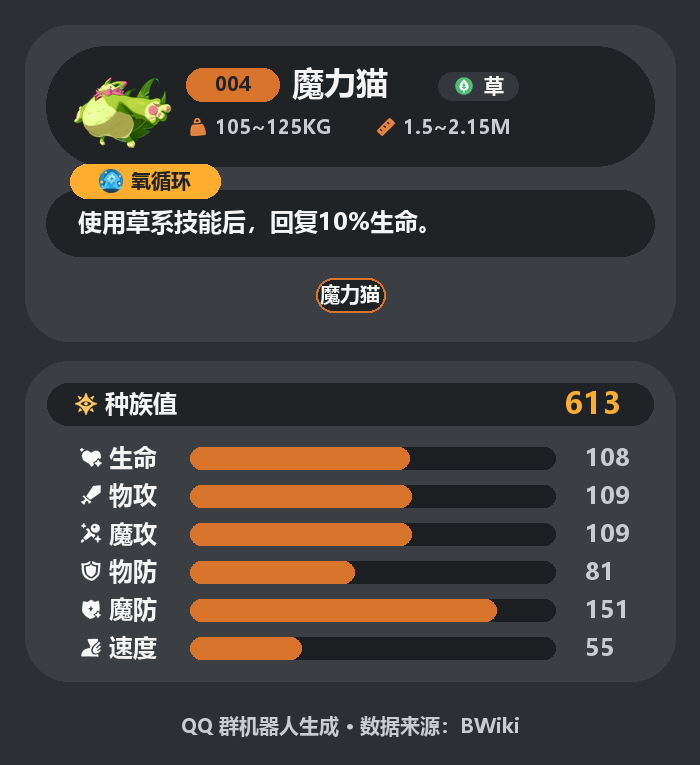
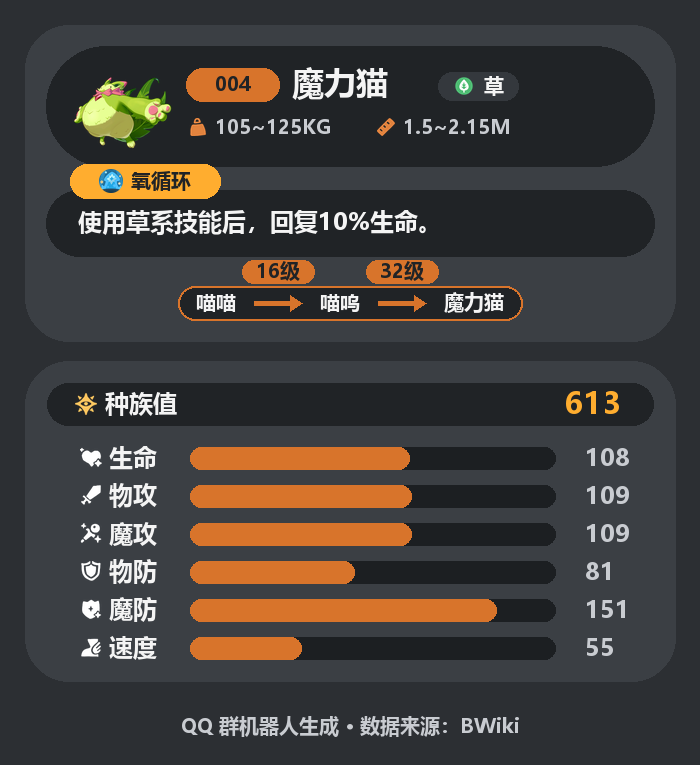
fix: improve roco evolution chain layout

Changed region(s): [[0.24, 0.3307, 0.75, 0.4209]]

diff --git a/src/qq_bot/services/roco_pet_cards.py b/src/qq_bot/services/roco_pet_cards.py
@@ -1,5 +1,6 @@
 from __future__ import annotations
 
+import re
 from io import BytesIO
 from pathlib import Path
 
@@ -38,6 +39,9 @@ STAT_ICON_FILES = {
     "magic_defense": "stat-magic-defense.png",
     "speed": "stat-speed.png",
 }
+EVOLUTION_ARROW_WIDTH = 48
+EVOLUTION_TOKEN_GAP = 18
+EVOLUTION_BOX_PADDING = 18
 
 
 def pet_card_path(record: PetRecord, directory: Path = DEFAULT_CARD_DIR) -> Path:
@@ -189,8 +193,7 @@ def _draw_description(
         icon_size=(24, 24),
     )
     _draw_wrapped_vcenter_text(draw, (78, 190, 625, 256), _value(record.description), normal_font, TEXT, line_spacing=4)
-    _rounded(draw, (316, 278, 385, 312), 17, PILL, outline=ORANGE)
-    _center_text(draw, record.name or "未知", (350, 295), small_font, TEXT)
+    _draw_evolution_chain(draw, record, small_font, small_bold_font)
 
 
 def _draw_stats(
@@ -224,6 +227,148 @@ def _draw_stats(
             _rounded(draw, (bar_x, y + 1, bar_x + width, y + 23), 11, ORANGE)
         _vcenter_text(draw, (585, y - 5, 630, y + 27), display_value, normal_bold_font, MUTED)
         y += 38
+
+
+def _draw_evolution_chain(
+    draw: ImageDraw.ImageDraw,
+    record: PetRecord,
+    name_font: ImageFont.ImageFont,
+    condition_font: ImageFont.ImageFont,
+) -> None:
+    chain_font = _fit_chain_font(draw, record, name_font, 448 - EVOLUTION_BOX_PADDING * 2)
+    chain_box, placements = _evolution_chain_layout(draw, record, chain_font, max_width=448)
+
+    _rounded(draw, chain_box, 17, PILL, outline=ORANGE)
+
+    for kind, text, width, x, condition in placements:
+        token_box = (x, chain_box[1], x + width, chain_box[3])
+        if kind == "arrow":
+            arrow_center_x = x + width // 2
+            _draw_evolution_arrow(draw, arrow_center_x, 303)
+            _draw_evolution_condition(draw, condition, arrow_center_x, condition_font)
+        else:
+            _vcenter_text(draw, token_box, text, chain_font, TEXT)
+
+
+def _evolution_chain_layout(
+    draw: ImageDraw.ImageDraw,
+    record: PetRecord,
+    font: ImageFont.ImageFont,
+    *,
+    max_width: int,
+) -> tuple[tuple[int, int, int, int], list[tuple[str, str, int, int, str]]]:
+    content_max_width = max_width - EVOLUTION_BOX_PADDING * 2
+    tokens = _evolution_tokens(draw, record, font, max_width=content_max_width)
+    token_widths = [_evolution_token_width(draw, token, font) for token in tokens]
+    content_width = sum(token_widths) + EVOLUTION_TOKEN_GAP * max(0, len(tokens) - 1)
+    box_width = min(max_width, content_width + EVOLUTION_BOX_PADDING * 2)
+    left = round((CARD_WIDTH - box_width) / 2)
+    chain_box = (left, 286, left + box_width, 320)
+    x = left + round((box_width - content_width) / 2)
+    placements = []
+
+    for token, width in zip(tokens, token_widths, strict=True):
+        kind, text, condition = token
+        placements.append((kind, text, width, x, condition))
+        x += width + EVOLUTION_TOKEN_GAP
+
+    return chain_box, placements
+
+
+def _draw_evolution_condition(
+    draw: ImageDraw.ImageDraw,
+    condition: str,
+    arrow_center_x: int,
+    condition_font: ImageFont.ImageFont,
+) -> None:
+    if not condition:
+        return
+    label_box = (arrow_center_x - 36, 260, arrow_center_x + 36, 283)
+    label_font = _fit_font_to_width(draw, condition, condition_font, label_box[2] - label_box[0] - 10, min_size=12)
+    _rounded(draw, label_box, 11, ORANGE)
+    _center_text(draw, condition, (arrow_center_x, 271), label_font, "#202326")
+
+
+def _fit_chain_font(
+    draw: ImageDraw.ImageDraw,
+    record: PetRecord,
+    font: ImageFont.ImageFont,
+    max_width: int,
+) -> ImageFont.ImageFont:
+    if not isinstance(font, ImageFont.FreeTypeFont):
+        return font
+    for size in range(font.size, 13, -1):
+        candidate = font.font_variant(size=size)
+        tokens = _evolution_tokens(draw, record, candidate, max_width=max_width)
+        widths = [_evolution_token_width(draw, token, candidate) for token in tokens]
+        if sum(widths) + EVOLUTION_TOKEN_GAP * max(0, len(tokens) - 1) <= max_width:
+            return candidate
+    return font.font_variant(size=14)
+
+
+def _draw_evolution_arrow(draw: ImageDraw.ImageDraw, center_x: int, center_y: int) -> None:
+    half_width = 24
+    shaft_start = center_x - half_width
+    shaft_end = center_x + half_width - 8
+    draw.line((shaft_start, center_y, shaft_end, center_y), fill=ORANGE, width=5)
+    draw.polygon(
+        [
+            (center_x + half_width, center_y),
+            (center_x + half_width - 12, center_y - 8),
+            (center_x + half_width - 12, center_y + 8),
+        ],
+        fill=ORANGE,
+    )
+
+
+def _evolution_tokens(
+    draw: ImageDraw.ImageDraw,
+    record: PetRecord,
+    font: ImageFont.ImageFont,
+    *,
+    max_width: int,
+) -> list[tuple[str, str, str]]:
+    chain = record.evolution_chain or [record.name or "未知"]
+    steps = _evolution_steps(record)
+    tokens: list[tuple[str, str, str]] = []
+
+    for index, name in enumerate(chain):
+        tokens.append(("name", name, ""))
+        if index >= len(steps):
+            continue
+        tokens.append(("arrow", "→", steps[index][2]))
+
+    return _compact_evolution_tokens(draw, tokens, font, max_width)
+
+
+def _compact_evolution_tokens(
+    draw: ImageDraw.ImageDraw,
+    tokens: list[tuple[str, str, str]],
+    font: ImageFont.ImageFont,
+    max_width: int,
+) -> list[tuple[str, str, str]]:
+    widths = [_evolution_token_width(draw, token, font) for token in tokens]
+    if sum(widths) + EVOLUTION_TOKEN_GAP * max(0, len(tokens) - 1) <= max_width:
+        return tokens
+
+    compacted = []
+    for kind, text, condition in tokens:
+        if kind == "name" and len(text) > 3:
+            compacted.append((kind, f"{text[:2]}…", condition))
+        else:
+            compacted.append((kind, text, condition))
+    return compacted
+
+
+def _evolution_token_width(
+    draw: ImageDraw.ImageDraw,
+    token: tuple[str, str, str],
+    font: ImageFont.ImageFont,
+) -> int:
+    kind, text, _ = token
+    if kind == "arrow":
+        return EVOLUTION_ARROW_WIDTH
+    return _text_width(draw, text, font)
 
 
 def _rounded(
@@ -320,6 +465,11 @@ def _fit_font_to_width(
     return font.font_variant(size=min_size)
 
 
+def _text_width(draw: ImageDraw.ImageDraw, text: str, font: ImageFont.ImageFont) -> int:
+    bbox = draw.textbbox((0, 0), text, font=font)
+    return bbox[2] - bbox[0]
+
+
 def _draw_icon_text(
     image: Image.Image,
     draw: ImageDraw.ImageDraw,
@@ -354,6 +504,36 @@ def _draw_icon_text(
 
 def _value(value: str | None) -> str:
     return value or "未知"
+
+
+def _format_evolution_chain(record: PetRecord) -> str:
+    return " → ".join(record.evolution_chain) if record.evolution_chain else _value(record.name)
+
+
+def _evolution_steps(record: PetRecord) -> list[tuple[str, str, str]]:
+    chain = record.evolution_chain
+    if len(chain) < 2:
+        return []
+    levels = [f"{level}级" for level in re.findall(r"(\d+)级", record.evolution_condition)]
+    if len(chain) == 3 and len(levels) == 1:
+        levels = ["16级", levels[0]]
+    return [(source, target, levels[index] if index < len(levels) else "") for index, (source, target) in enumerate(zip(chain, chain[1:], strict=False))]
+
+
+def _evolution_step_positions(record: PetRecord) -> list[tuple[str, str, str, int]]:
+    steps = _evolution_steps(record)
+    if not steps:
+        return []
+    if len(steps) == 1:
+        positions = [350]
+    elif len(steps) == 2:
+        positions = [292, 408]
+    else:
+        start = 220
+        end = 480
+        interval = (end - start) / (len(steps) - 1)
+        positions = [round(start + interval * index) for index in range(len(steps))]
+    return [(source, target, condition, positions[index]) for index, (source, target, condition) in enumerate(steps)]
 
 
 def _attribute_color(attribute: str) -> str:

diff --git a/tests/test_roco_pet_cards.py b/tests/test_roco_pet_cards.py
@@ -4,7 +4,11 @@ from pathlib import Path
 from PIL import Image, ImageDraw, ImageFont
 
 from qq_bot.services.roco_pet_cards import (
+    _evolution_chain_layout,
+    _evolution_steps,
+    _evolution_tokens,
     _fit_font_to_width,
+    _format_evolution_chain,
     generate_pet_card_files,
     pet_art_path,
     pet_card_path,
@@ -115,6 +119,80 @@ def test_fit_font_to_width_keeps_long_pet_name_before_attribute() -> None:
     bbox = draw.textbbox((0, 0), "魔力猫", font=fitted)
 
     assert bbox[2] - bbox[0] <= 120
+
+
+def test_format_evolution_chain_uses_full_chain() -> None:
+    record = PetRecord(
+        name="魔力猫",
+        aliases=[],
+        number="004",
+        attributes=["草"],
+        stage="最终形态",
+        evolution_chain=["喵喵", "喵呜", "魔力猫"],
+        evolution_condition="由喵呜32级进化；常规图鉴形态为最终形态。",
+        source_url="https://wiki.biligame.com/rocom/魔力猫",
+    )
+
+    assert _format_evolution_chain(record) == "喵喵 → 喵呜 → 魔力猫"
+
+
+def test_evolution_steps_extracts_conditions_for_arrows() -> None:
+    record = PetRecord(
+        name="魔力猫",
+        aliases=[],
+        number="004",
+        attributes=["草"],
+        stage="最终形态",
+        evolution_chain=["喵喵", "喵呜", "魔力猫"],
+        evolution_condition="由喵呜32级进化；常规图鉴形态为最终形态。",
+        source_url="https://wiki.biligame.com/rocom/魔力猫",
+    )
+
+    assert _evolution_steps(record) == [("喵喵", "喵呜", "16级"), ("喵呜", "魔力猫", "32级")]
+
+
+def test_evolution_tokens_put_conditions_on_matching_arrows() -> None:
+    image = Image.new("RGB", (700, 765))
+    draw = ImageDraw.Draw(image)
+    font = ImageFont.truetype("C:/Windows/Fonts/msyhbd.ttc", size=20)
+    record = PetRecord(
+        name="魔力猫",
+        aliases=[],
+        number="004",
+        attributes=["草"],
+        stage="最终形态",
+        evolution_chain=["喵喵", "喵呜", "魔力猫"],
+        evolution_condition="由喵呜32级进化；常规图鉴形态为最终形态。",
+        source_url="https://wiki.biligame.com/rocom/魔力猫",
+    )
+
+    tokens = _evolution_tokens(draw, record, font, max_width=360)
+
+    arrows = [token for token in tokens if token[0] == "arrow"]
+    assert arrows == [("arrow", "→", "16级"), ("arrow", "→", "32级")]
+
+
+def test_evolution_chain_layout_uses_dynamic_box_and_arrow_width() -> None:
+    image = Image.new("RGB", (700, 765))
+    draw = ImageDraw.Draw(image)
+    font = ImageFont.truetype("C:/Windows/Fonts/msyhbd.ttc", size=20)
+    record = PetRecord(
+        name="魔力猫",
+        aliases=[],
+        number="004",
+        attributes=["草"],
+        stage="最终形态",
+        evolution_chain=["喵喵", "喵呜", "魔力猫"],
+        evolution_condition="由喵呜32级进化；常规图鉴形态为最终形态。",
+        source_url="https://wiki.biligame.com/rocom/魔力猫",
+    )
+
+    box, placements = _evolution_chain_layout(draw, record, font, max_width=448)
+
+    assert box[0] > 126
+    assert box[2] < 574
+    assert [placement[0] for placement in placements] == ["name", "arrow", "name", "arrow", "name"]
+    assert [placement[2] for placement in placements if placement[0] == "arrow"] == [48, 48]
 
 
 def test_generate_pet_card_files_writes_png_to_directory(tmp_path: Path) -> None:
